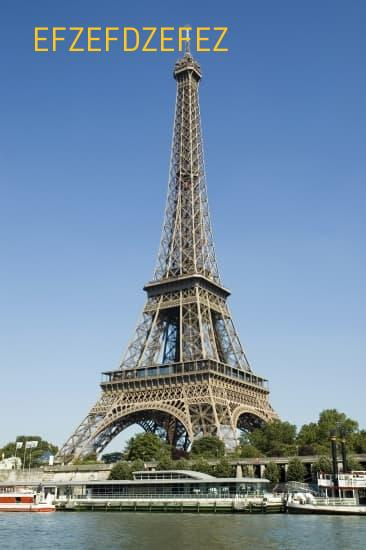
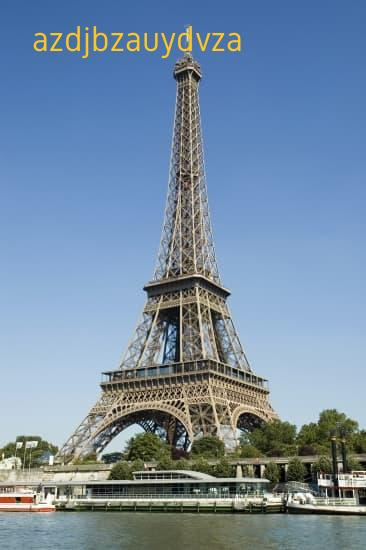
le retour de ma fonction

Changed region(s): [[0.0902, 0.0309, 0.6612, 0.1236]]

diff --git a/main.py b/main.py
@@ -13,7 +13,7 @@ def applique_filtre(image, filtres):
     for tout_filtre in filtres:
         parts = tout_filtre.split(':')
         type_filtre = parts[0]
-        filter_value = int(parts[1]) if len(parts) > 1 else None
+        filter_value = len(parts) > 1 or None
 
         if type_filtre == 'gris':
             image = filtre_gris(image)
@@ -22,14 +22,16 @@ def applique_filtre(image, filtres):
         elif type_filtre == 'dilatation':
             image = dilatation_img(image)
         elif type_filtre == 'rotation':
+            filter_value = int(parts[1]) if len(parts) > 1 else None
             image = rotate_img(image, filter_value)
-        elif type_filtre == 'resize':
-            width, height = map(int, parts[1].split('&'))
-            image = resize_img(image, width, height)
         elif type_filtre == 'texte':
+            filter_value = parts[1]
             image = image_text(image, filter_value)
+        elif type_filtre == 'resize':
+            width = int(parts[1]) if len(parts) > 1 else None
+            height = int(parts[1]) if len(parts) > 1 else None
+            image = resize_img(image, width, height)
     return image
-
 ###################
 ####Filtre gris####
 ###################
